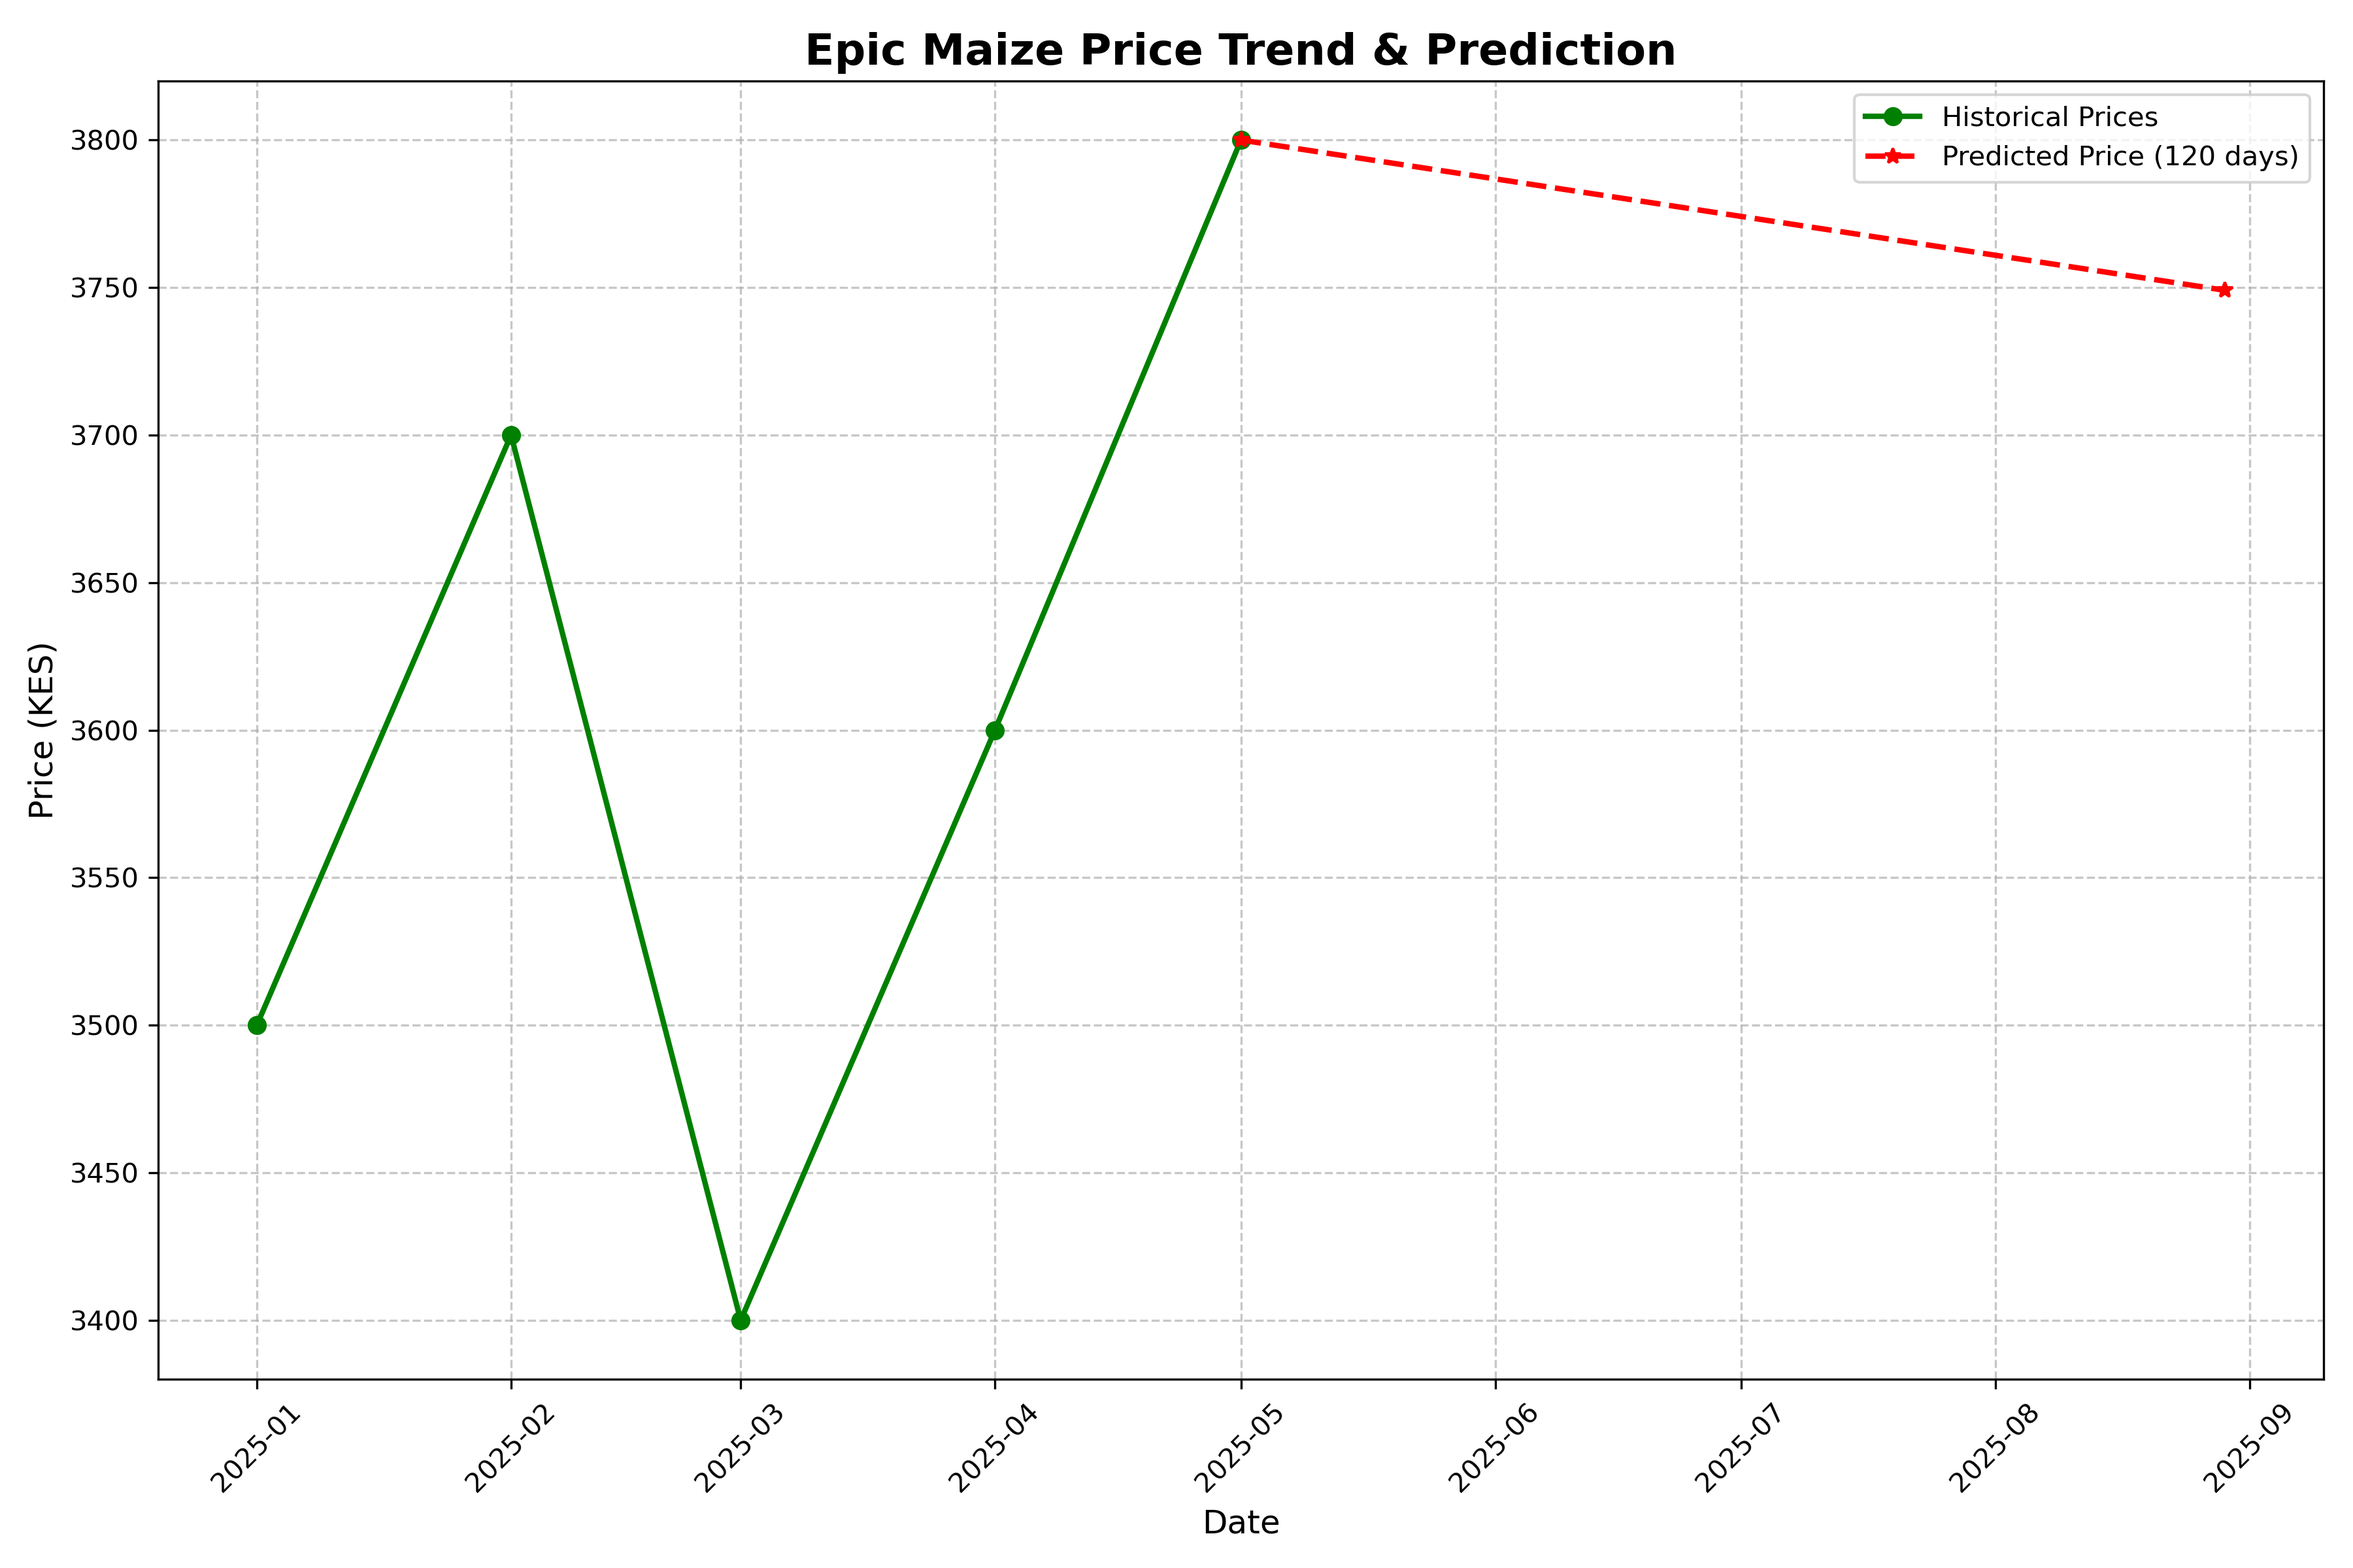
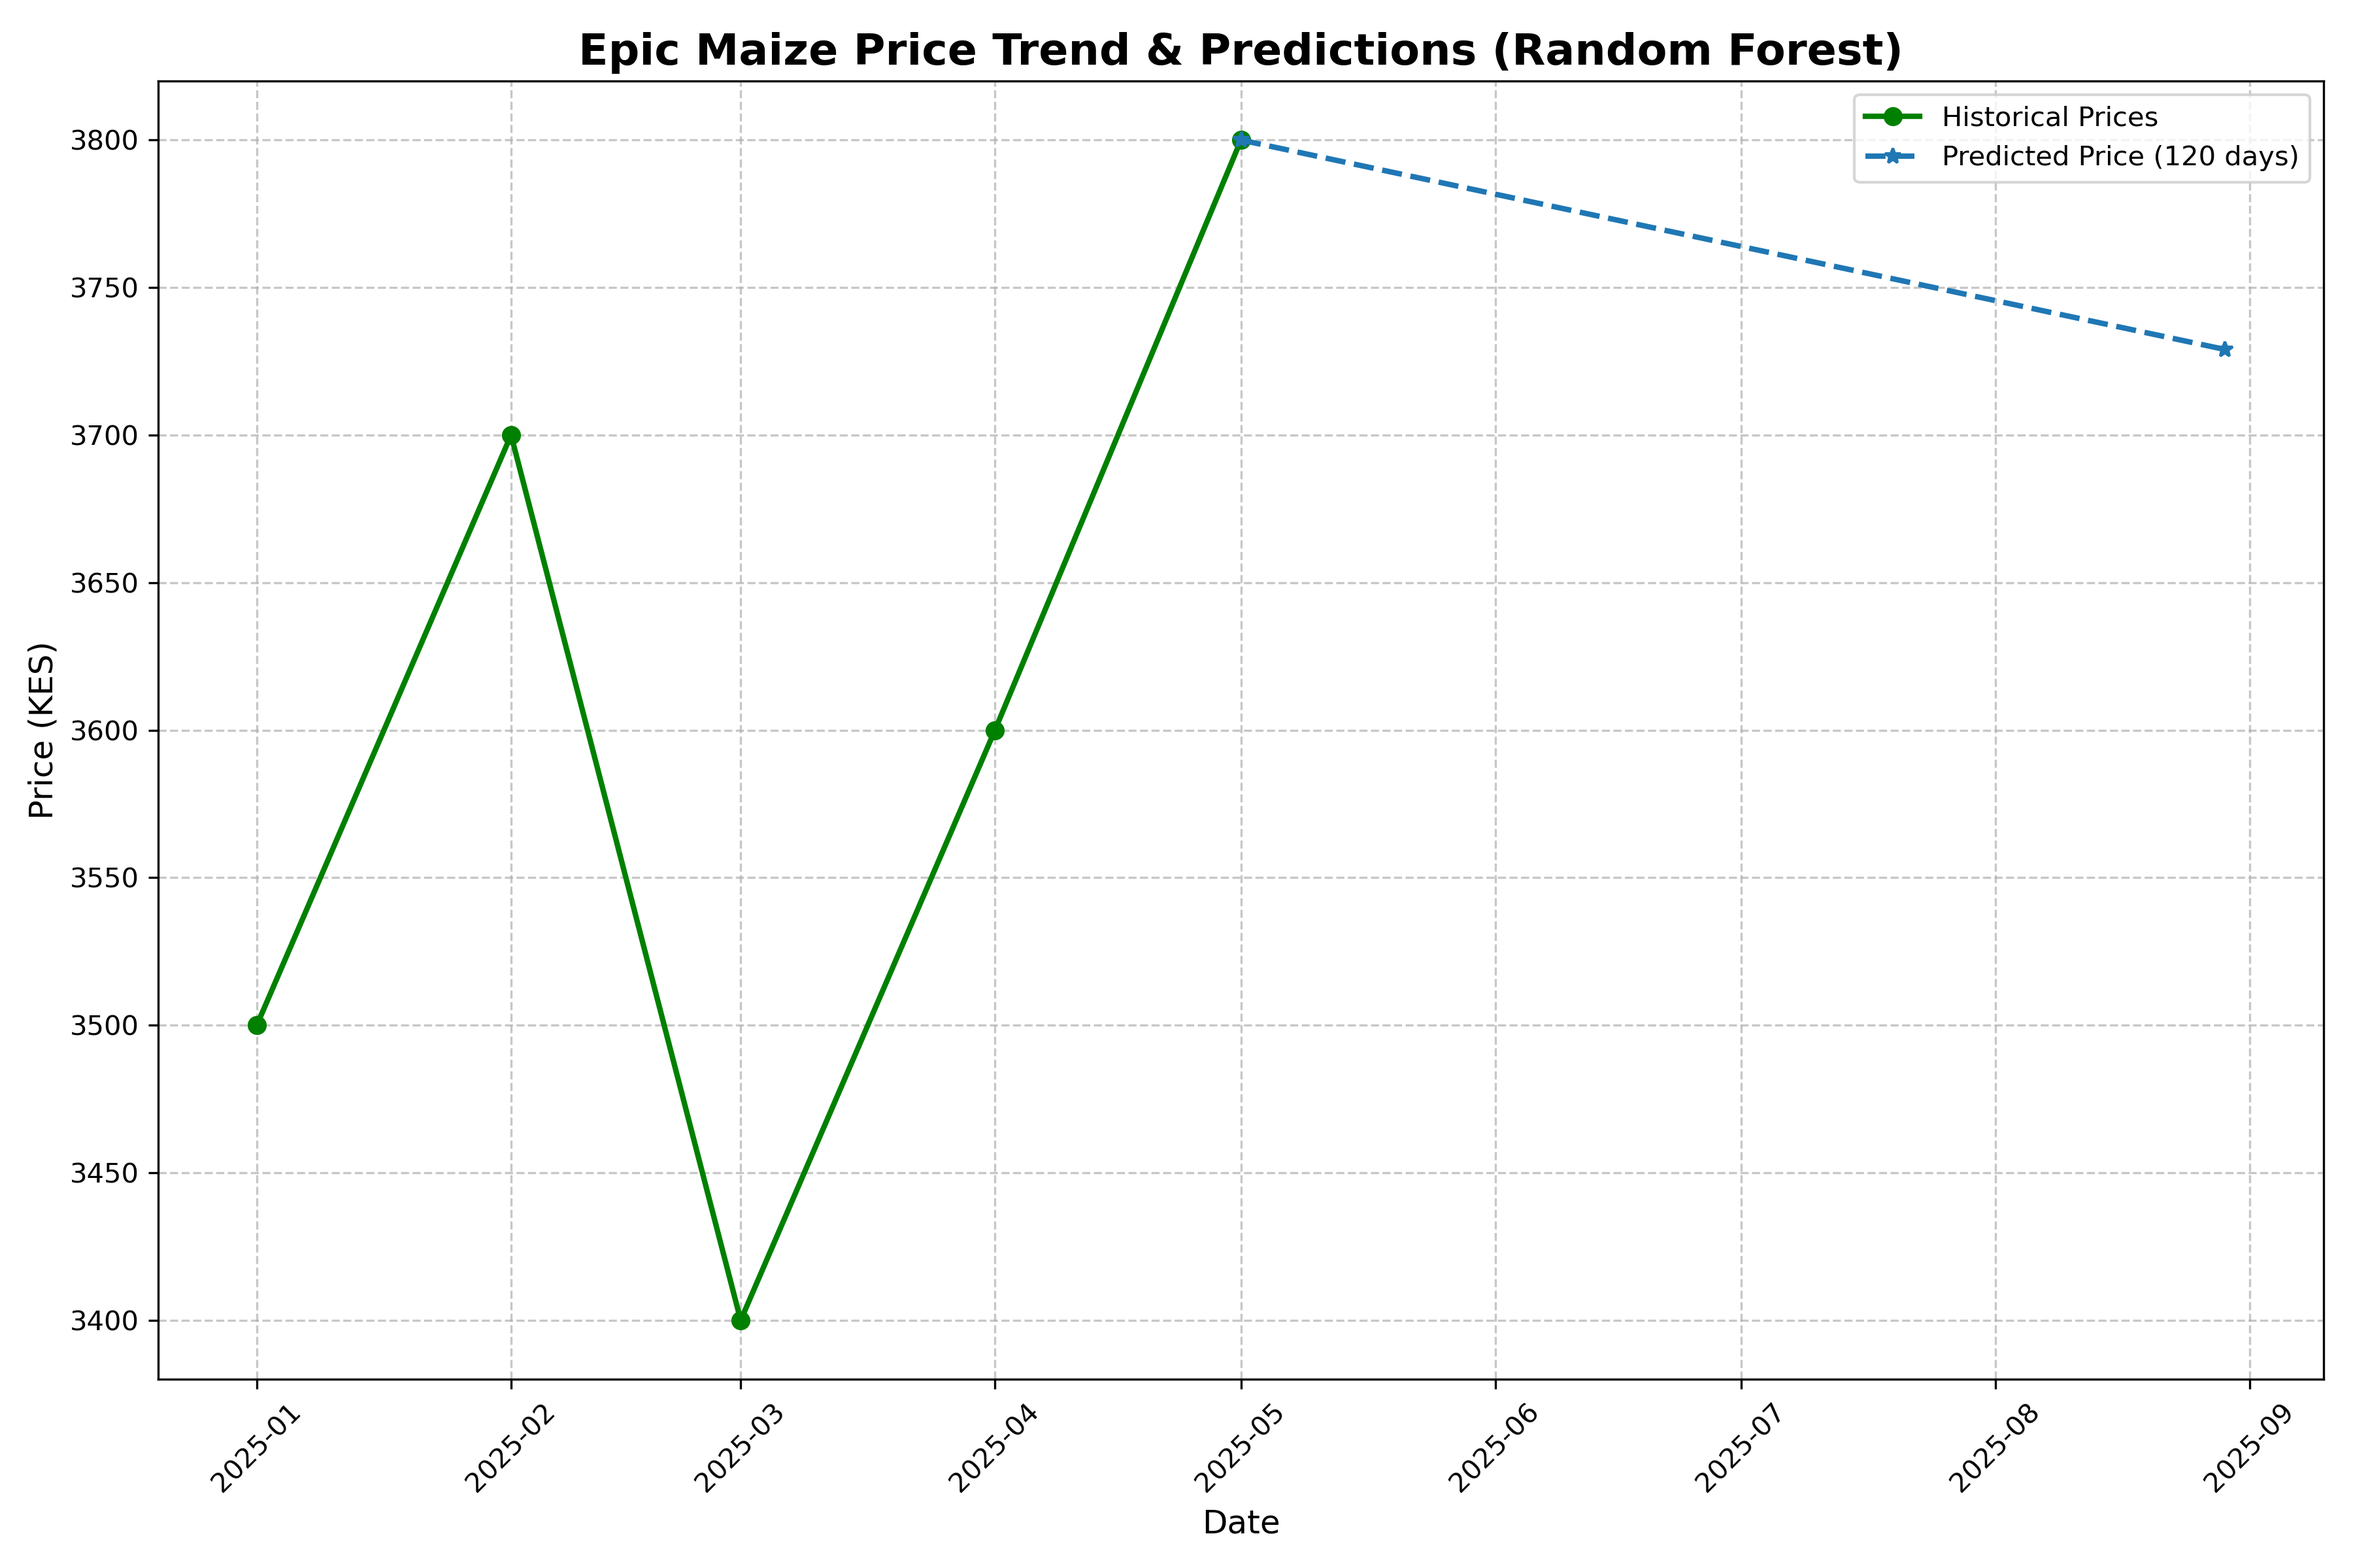
Updated prediction output and visualization

diff --git a/src/price_predictor.py b/src/price_predictor.py
@@ -1,6 +1,6 @@
 import pandas as pd
 import numpy as np
-from sklearn.linear_model import LinearRegression
+from sklearn.ensemble import RandomForestRegressor
 from sklearn.model_selection import train_test_split
 import matplotlib
 matplotlib.use('Agg')
@@ -28,48 +28,63 @@ data['Days'] = (data['Date'] - data['Date'].min()).dt.days
 print("Data prepared. Peek at the treasure:", data.head())
 
 # Prepare for the model battle with weather magic
-print("Gearing up the model with rainfall power...")
+print("Gearing up the Random Forest model with rainfall power...")
 X = data[['Days', 'Rainfall']].values
 y = data['Maize_Price'].values
 X_train, X_test, y_train, y_test = train_test_split(X, y, test_size=0.2, random_state=42)
 print("Training squad ready. Size:", X_train.shape)
 
-# Train the mighty model
-print("Unleashing the model training!")
-model = LinearRegression()
+# Train the mighty Random Forest model
+print("Unleashing the Random Forest training!")
+model = RandomForestRegressor(n_estimators=100, random_state=42)
 model.fit(X_train, y_train)
-# Skip scoring due to small test size
 print("Model trained! Skipping score due to limited data.")
 
-# Interactive prediction horizon
-print("\nChoose your prediction horizon, brave adventurer!")
+# Interactive prediction horizons (multiple)
+print("\nChoose your prediction horizons, brave adventurer!")
+print("Enter multiple days into the future (e.g., '30 60 90'), separated by spaces:")
 while True:
     try:
-        days = int(input("How many days into the future? (e.g., 30): "))
-        if days > 0:
+        horizons = [int(day) for day in input("Days ahead: ").strip().split()]
+        if all(day > 0 for day in horizons):
             break
         else:
-            print("Please enter a positive number of days!")
+            print("Please enter positive numbers only!")
     except ValueError:
-        print("Invalid input! Enter a number, like 30.")
+        print("Invalid input! Enter numbers like '30 60 90'.")
 
-# Predict the future harvest with rainfall
-print(f"Peering {days} days into the future...")
+# Predict for each horizon
 last_day = X[-1][0]
 last_rainfall = data['Rainfall'].iloc[-1]
-future_day = last_day + days
-future_price = model.predict([[future_day, last_rainfall]])
-future_date = data['Date'].max() + pd.Timedelta(days=days)
-print(f"Predicted maize price in {days} days: KES {future_price[0]:.2f}")
+last_price = data['Maize_Price'].iloc[-1]
+last_date = data['Date'].max()
 
-# Save prediction to CSV (append mode)
-print("Recording prediction in ancient scrolls...")
-prediction_data = pd.DataFrame({
-    'Future_Date': [future_date],
-    'Predicted_Price': [future_price[0]],
-    'Days_Ahead': [days],
-    'Rainfall_Used': [last_rainfall]
-})
+predictions = []
+plt.figure(figsize=(12, 8))
+plt.plot(data['Date'], data['Maize_Price'], label='Historical Prices', marker='o', color='green', linewidth=2)
+
+for days in horizons:
+    print(f"\nPeering {days} days into the future...")
+    future_day = last_day + days
+    future_price = model.predict([[future_day, last_rainfall]])
+    future_date = last_date + pd.Timedelta(days=days)
+    print(f"Predicted maize price in {days} days: KES {future_price[0]:.2f}")
+
+    # Save prediction to list
+    predictions.append({
+        'Future_Date': future_date,
+        'Predicted_Price': future_price[0],
+        'Days_Ahead': days,
+        'Rainfall_Used': last_rainfall
+    })
+
+    # Plot the prediction
+    plt.plot([last_date, future_date], [last_price, future_price[0]], 
+             label=f'Predicted Price ({days} days)', linestyle='--', marker='*', linewidth=2)
+
+# Save predictions to CSV (append mode)
+print("\nRecording predictions in ancient scrolls...")
+prediction_data = pd.DataFrame(predictions)
 prediction_path = os.path.join(os.path.dirname(__file__), '..', 'data', 'predictions.csv')
 if os.path.exists(prediction_path):
     existing_data = pd.read_csv(prediction_path)
@@ -77,7 +92,7 @@ if os.path.exists(prediction_path):
     updated_data.to_csv(prediction_path, index=False)
 else:
     prediction_data.to_csv(prediction_path, index=False)
-print(f"Prediction recorded at: {os.path.abspath(prediction_path)}")
+print(f"Predictions recorded at: {os.path.abspath(prediction_path)}")
 
 # Craft the legendary visualization
 print("Weaving the price trend masterpiece...")
@@ -85,11 +100,7 @@ try:
     visuals_path = os.path.join(os.path.dirname(__file__), '..', 'visuals')
     os.makedirs(visuals_path, exist_ok=True)
     print("Canvas set at:", os.path.abspath(visuals_path))
-    plt.figure(figsize=(12, 8))
-    plt.plot(data['Date'], data['Maize_Price'], label='Historical Prices', marker='o', color='green', linewidth=2)
-    plt.plot([data['Date'].max(), future_date], [data['Maize_Price'].iloc[-1], future_price[0]], 
-             label=f'Predicted Price ({days} days)', linestyle='--', color='red', marker='*', linewidth=2)
-    plt.title('Epic Maize Price Trend & Prediction', fontsize=16, fontweight='bold')
+    plt.title('Epic Maize Price Trend & Predictions (Random Forest)', fontsize=16, fontweight='bold')
     plt.xlabel('Date', fontsize=12)
     plt.ylabel('Price (KES)', fontsize=12)
     plt.legend(fontsize=10)
